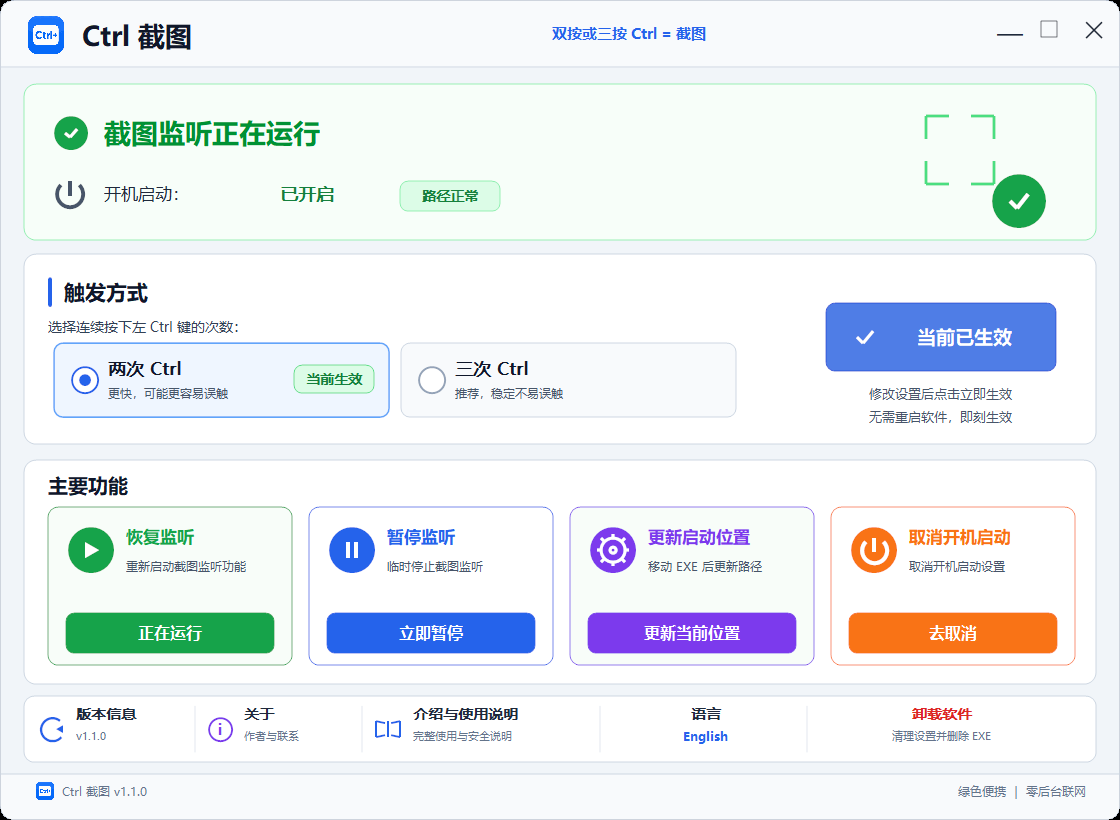
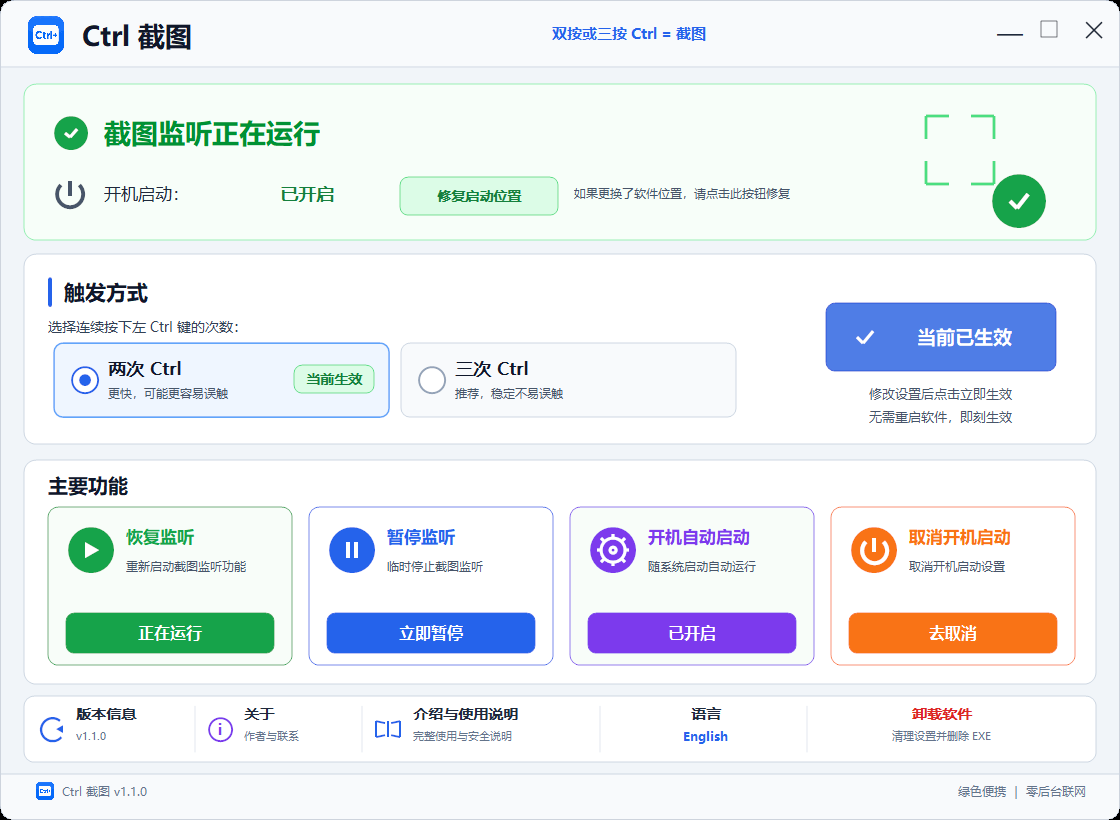
Correct Pro startup controls and screenshots

Changed region(s): [[0.3438, 0.2134, 0.7188, 0.2744], [0.5625, 0.6402, 0.6875, 0.7012], [0.5625, 0.7622, 0.6562, 0.7927]]

diff --git a/docs/COMMERCIAL_EDITION.md b/docs/COMMERCIAL_EDITION.md
@@ -48,11 +48,11 @@ No tray icon. Closing the window keeps it running in the background; launch the 
 
 ![移动 EXE 后修复开机启动路径](images/ctrl-screenshot-pro-startup-repair-zh.png)
 
-> 如果您更换了 EXE 的位置，请点击“更新启动位置”按钮直接修复。
+> 下方“开机自动启动”只负责开启自动启动。如果您更换了 EXE 的位置，请点击上方“修复启动位置”按钮直接修复。
 
 按钮会立即把开机启动路径修复为当前 EXE 的位置。现在点击或以后手动打开软件再点击都可以；修复后，后续开机都会从新位置自动启动。“取消开机启动”才是关闭自动启动。
 
-Run the EXE from its new location and click **Update startup location**. The saved startup path is repaired immediately. **Disable startup** is the separate action that turns automatic startup off.
+**Start automatically** below enables automatic startup. After moving the EXE, run it from the new location and click **Repair startup path** at the top. The saved path is repaired immediately. **Disable startup** is the separate action that turns automatic startup off.
 
 ## 价格与获取方式 / Purchase
 

diff --git a/CHANGELOG.md b/CHANGELOG.md
@@ -3,6 +3,7 @@
 ## Ctrl Screenshot brand update - 2026-08-21
 
 - Renamed the product from Super Screenshot to **Ctrl Screenshot**.
+- Corrected the Pro startup controls: **Start automatically** remains the lower enable button, while **Repair startup path** is a separate upper button for moved EXE files.
 - Rebuilt the repository landing page around **Triple Ctrl = Screenshot**.
 - Clearly separated Ctrl Screenshot Free from Ctrl Screenshot Pro.
 - Renamed the startup value to `CtrlScreenshotFree` while cleaning up the former value for compatibility.
